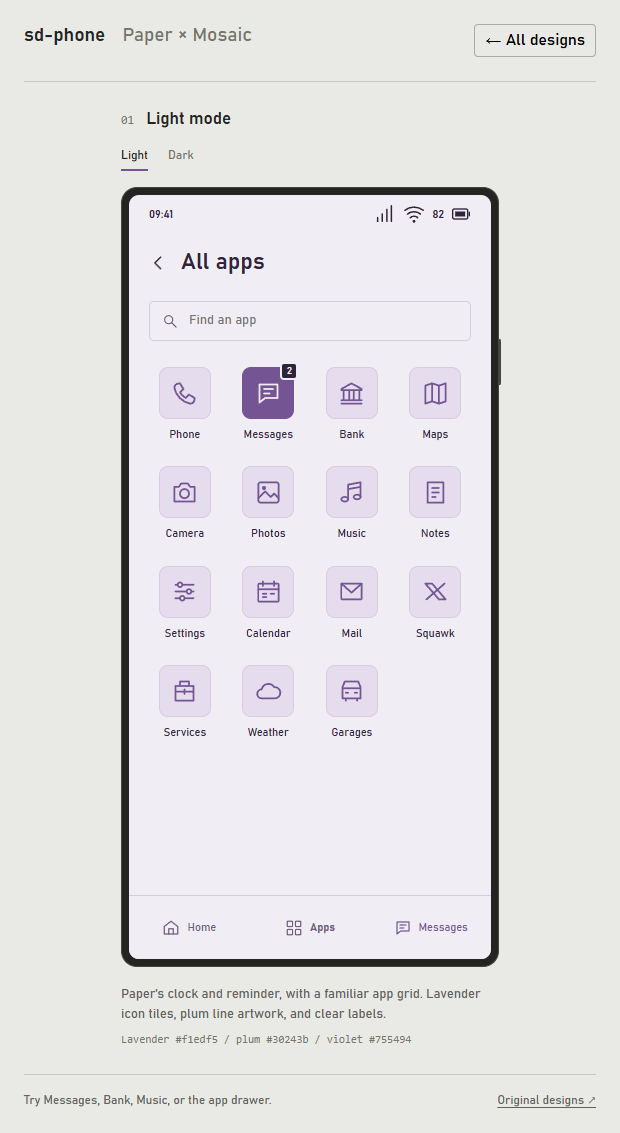
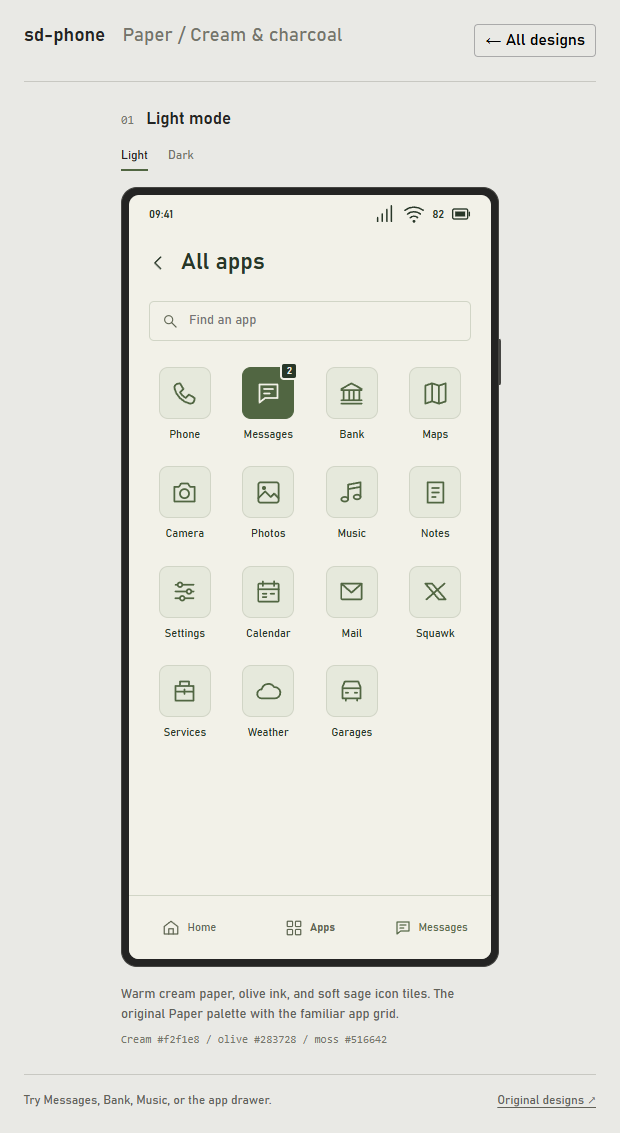
Try cream and charcoal olive palettes in phone mockup

diff --git a/designs/phone-concepts/index.html b/designs/phone-concepts/index.html
@@ -24,7 +24,7 @@
     .collection-link { color: inherit; text-underline-offset: 3px; }
     .theme-picker { display: flex; gap: 20px; max-width: 378px; margin: -5px auto 16px; }
     .theme-picker button { padding: 7px 0; border: 0; border-bottom: 2px solid transparent; background: transparent; font-size: 12px; color: #74746b; }
-    .theme-picker button[aria-pressed="true"] { color: #242423; border-bottom-color: #755494; }
+    .theme-picker button[aria-pressed="true"] { color: #242423; border-bottom-color: #516642; }
     .concept { min-width: 0; }
     .concept-heading { display: flex; align-items: center; gap: 12px; margin-bottom: 16px; }
     .number { color: #76766d; font-family: monospace; font-size: 12px; }
@@ -36,8 +36,8 @@
     .signal { --bg: #151514; --ink: #f1f0e9; --muted: #a1a198; --line: #363632; --accent: #ed6b38; --surface: #232321; }
     .paper { --bg: #f2f1e8; --ink: #283728; --muted: #6e7668; --line: #d1d5c6; --accent: #516642; --surface: #e7eadb; }
     .mosaic { --bg: #1c1822; --ink: #eee9f4; --muted: #b1a6be; --line: #41364c; --accent: #b8a1d8; --surface: #302638; }
-    .hybrid[data-theme="light"] { color-scheme: light; --bg: #f1edf5; --ink: #30243b; --muted: #6e5d79; --line: #d6ccdf; --accent: #755494; --surface: #e5dced; }
-    .hybrid[data-theme="dark"] { color-scheme: dark; --bg: #1c1822; --ink: #eee9f4; --muted: #b1a6be; --line: #41364c; --accent: #b8a1d8; --surface: #302638; }
+    .hybrid[data-theme="light"] { color-scheme: light; --bg: #f2f1e8; --ink: #283728; --muted: #606653; --line: #d1d5c6; --accent: #516642; --surface: #e6e9dc; }
+    .hybrid[data-theme="dark"] { color-scheme: dark; --bg: #20231e; --ink: #f2f1e8; --muted: #b6baab; --line: #444b3d; --accent: #bdc9a7; --surface: #30362b; }
     .hybrid .phone-nav button.active { color: var(--accent); font-weight: 700; }
     .hybrid .music-cover { background: var(--surface); }
     .hybrid .music-cover svg { color: var(--accent); }
@@ -247,8 +247,8 @@
     const queryParams = new URLSearchParams(location.search);
     const originalStudy = queryParams.get('collection') === 'original' || originals.some(d => d.id === queryParams.get('concept'));
     const modeDescription = {
-      light: { description: 'Paper’s clock and reminder, with a familiar app grid. Lavender icon tiles, plum line artwork, and clear labels.', detail: 'Lavender #f1edf5 / plum #30243b / violet #755494' },
-      dark: { description: 'The same icon grid after dark. Aubergine paper, muted plum icon tiles, and soft lilac artwork.', detail: 'Aubergine #1c1822 / chalk #eee9f4 / lilac #b8a1d8' },
+      light: { description: 'Warm cream paper, olive ink, and soft sage icon tiles. The original Paper palette with the familiar app grid.', detail: 'Cream #f2f1e8 / olive #283728 / moss #516642' },
+      dark: { description: 'Deep charcoal with a quiet olive undertone. Cream text and pale sage icons keep the same warm character after dark.', detail: 'Charcoal #20231e / cream #f2f1e8 / sage #bdc9a7' },
     };
     const designs = originalStudy ? originals : [
       { id: 'paper-mosaic-light', name: 'Light mode', layout: 'paper', theme: 'light', ...modeDescription.light },
@@ -256,12 +256,12 @@
     ];
     if (!originalStudy) {
       document.querySelector('.studio').classList.add('hybrid-study');
-      document.querySelector('.studio-header h1 span').textContent = 'Paper × Mosaic';
+      document.querySelector('.studio-header h1 span').textContent = 'Paper / Cream & charcoal';
       document.querySelector('.studio-header p').textContent = 'One layout. Two appearances.';
       document.querySelector('.studio-footer span:last-child').innerHTML = '<a class="collection-link" href="?collection=original">Original designs ↗</a>';
-      document.title = 'sd-phone / Paper × Mosaic';
+      document.title = 'sd-phone / Paper — Cream & charcoal';
     } else {
-      document.querySelector('.studio-footer span:last-child').innerHTML = '<a class="collection-link" href="?">Paper × Mosaic ↗</a>';
+      document.querySelector('.studio-footer span:last-child').innerHTML = '<a class="collection-link" href="?">Cream & charcoal ↗</a>';
     }
     const state = Object.fromEntries(designs.map(d => [d.id, { page: 'home', theme: d.theme, playing: false, sent: [], chat: 'Alex Morgan' }]));
     const themeButtons = s => ['light', 'dark'].map(mode => `<button data-theme-choice="${mode}" aria-pressed="${s.theme === mode}">${mode === 'light' ? 'Light' : 'Dark'}</button>`).join('');
@@ -290,7 +290,7 @@
       if (s.page === 'music') return `<div class="app-page">${title('Music')}<div class="music-cover">${icon('record')}</div><div class="music-caption">Night Drive<p>The Midnight</p></div><div class="music-controls"><button class="plain" data-notice="First track in the demo." aria-label="Previous track" style="rotate:180deg">${icon('skip')}</button><button class="play-button" data-play aria-label="${s.playing ? 'Pause' : 'Play'} music">${icon(s.playing ? 'pause' : 'play')}</button><button class="plain" data-notice="Only one track in the demo." aria-label="Next track">${icon('skip')}</button></div><p class="empty-state" style="text-align:center">${s.playing ? 'Playing · visual preview only' : 'Paused · visual preview only'}</p></div>`;
       if (s.page === 'maps') return `<div class="app-page">${title('Maps')}<svg class="demo-map" viewBox="0 0 320 280" aria-label="Illustrative street map"><rect width="320" height="280" fill="var(--surface)"/><g stroke="var(--line)" stroke-width="12"><path d="M-20 20 350 220M-20 120 320 300M50-20 230 300M170-20 350 260M-20 230 330 20"/></g><path d="m75 190 75-46 40 20" stroke="var(--accent)" stroke-width="5" fill="none"/><circle cx="75" cy="190" r="7" fill="var(--accent)"/><circle cx="190" cy="164" r="7" fill="var(--accent)"/><text x="180" y="148" fill="var(--ink)" font-size="11">Benny’s</text><text x="25" y="245" fill="var(--muted)" font-size="11">Strawberry</text></svg><div class="transaction"><div>Benny’s Workshop<p>3 min · 0.8 miles</p></div>${icon('pin')}</div><button class="demo-button" style="margin-top:20px" data-notice="Route preview started.">Start route</button></div>`;
       if (s.page === 'notes') return `<div class="app-page">${title('Notes')}${[['Shopping','Coffee, sandwich, repair kit'],['Sultan upgrades','Suspension, brakes, respray'],['Weekend plan','Meet Jamie at Vespucci Beach']].map(([name,desc]) => `<div class="transaction"><div>${name}<p>${desc}</p></div>${icon('notes')}</div>`).join('')}</div>`;
-      if (s.page === 'settings') return `<div class="app-page">${title('Settings')}${s.theme ? `<div class="balance-label">Appearance</div><div class="settings-theme" role="group" aria-label="Phone appearance">${themeButtons(s)}</div>` : ''}${(s.theme ? ['Notifications','Sound & vibration','Network','Privacy'] : ['Appearance','Notifications','Sound & vibration','Network','Privacy']).map(name => `<button class="app-list-item" data-notice="${name} settings are a visual preview."><span>${name}</span>${icon('arrow')}</button>`).join('')}<p class="empty-state">${s.theme ? 'Paper × Mosaic' : designs.find(d => d.id === s.id)?.name || 'Phone'} concept<br>Battery 82% · Connected to LS Network</p></div>`;
+      if (s.page === 'settings') return `<div class="app-page">${title('Settings')}${s.theme ? `<div class="balance-label">Appearance</div><div class="settings-theme" role="group" aria-label="Phone appearance">${themeButtons(s)}</div>` : ''}${(s.theme ? ['Notifications','Sound & vibration','Network','Privacy'] : ['Appearance','Notifications','Sound & vibration','Network','Privacy']).map(name => `<button class="app-list-item" data-notice="${name} settings are a visual preview."><span>${name}</span>${icon('arrow')}</button>`).join('')}<p class="empty-state">${s.theme ? 'Paper / Cream & charcoal' : designs.find(d => d.id === s.id)?.name || 'Phone'} concept<br>Battery 82% · Connected to LS Network</p></div>`;
       return `<div class="app-page">${title(appNames[s.page] || s.page)}<p class="empty-state">This app is a placeholder in the design study. Try Messages, Bank, Music, Maps, Phone, or Notes to see an example screen.</p>${open('apps', 'Browse all apps', 'demo-button')}</div>`;
     }
     function render(id) {

diff --git a/designs/phone-concepts/README.md b/designs/phone-concepts/README.md
@@ -1,22 +1,22 @@
-# Paper × Mosaic phone study
+# Paper / Cream & charcoal phone study
 
 Open `index.html` directly in a browser. No installation or build is needed. The file contains its own styles, scripts, and SVG icons, and does not load the production phone UI.
 
-The default view combines Paper’s clock, reminder, and quiet typography with Mosaic’s palette, comparing light and dark modes side by side. Apps use a familiar four-column icon grid on both the home screen and app drawer. The icon family uses consistent line artwork, restrained lavender/plum tiles, and a highlighted Messages icon with an unread badge.
+The default view uses Paper’s original warm cream and olive palette, with a contrasting charcoal-olive dark mode. Paper’s clock, reminder, and quiet typography are retained. Apps use a familiar four-column icon grid on both the home screen and app drawer. The icon family uses consistent line artwork, soft sage tiles in light mode, muted olive tiles in dark mode, and a highlighted Messages icon with an unread badge.
 
 | Color | Light | Dark |
 | --- | --- | --- |
-| Background | Lavender `#f1edf5` | Aubergine `#1c1822` |
-| Text | Plum `#30243b` | Chalk `#eee9f4` |
-| Secondary text | `#6e5d79` | `#b1a6be` |
-| Accent | Violet `#755494` | Lilac `#b8a1d8` |
-| Surface | `#e5dced` | `#302638` |
+| Background | Cream `#f2f1e8` | Charcoal-olive `#20231e` |
+| Text | Olive `#283728` | Cream `#f2f1e8` |
+| Secondary text | `#606653` | `#b6baab` |
+| Accent | Moss `#516642` | Sage `#bdc9a7` |
+| Surface | `#e6e9dc` | `#30362b` |
 
 Use the **Light / Dark** controls above either phone, or go to **Apps → Settings → Appearance**. The mode updates all example screens and keeps the current screen, conversation, and typed draft. Each phone has its own mode for comparison. Reloading returns to the initial light/dark pair.
 
 Use **Inspect** to view one design, or **All designs** to return to the comparison. Messages, Phone, Bank, Music, Maps, Notes, app search, and the bottom navigation are interactive examples. Other apps are placeholders. Sending messages and playing music change only local preview state; no server, game, banking, or audio services are connected. Reloading resets the fictional data.
 
-Individual views can be opened using `index.html?concept=paper-mosaic-light` and `index.html?concept=paper-mosaic-dark`.
+Individual views can be opened using `index.html?concept=paper-mosaic-light` and `index.html?concept=paper-mosaic-dark`. The existing concept IDs and screenshot filenames are kept so previously shared links continue to work.
 
 The first three designs are preserved at `index.html?collection=original`: Signal (graphite/orange grid), Paper (chalk/olive list), and Mosaic (aubergine/lilac tiles). Their original `?concept=signal`, `?concept=paper`, and `?concept=mosaic` links still work.
 
